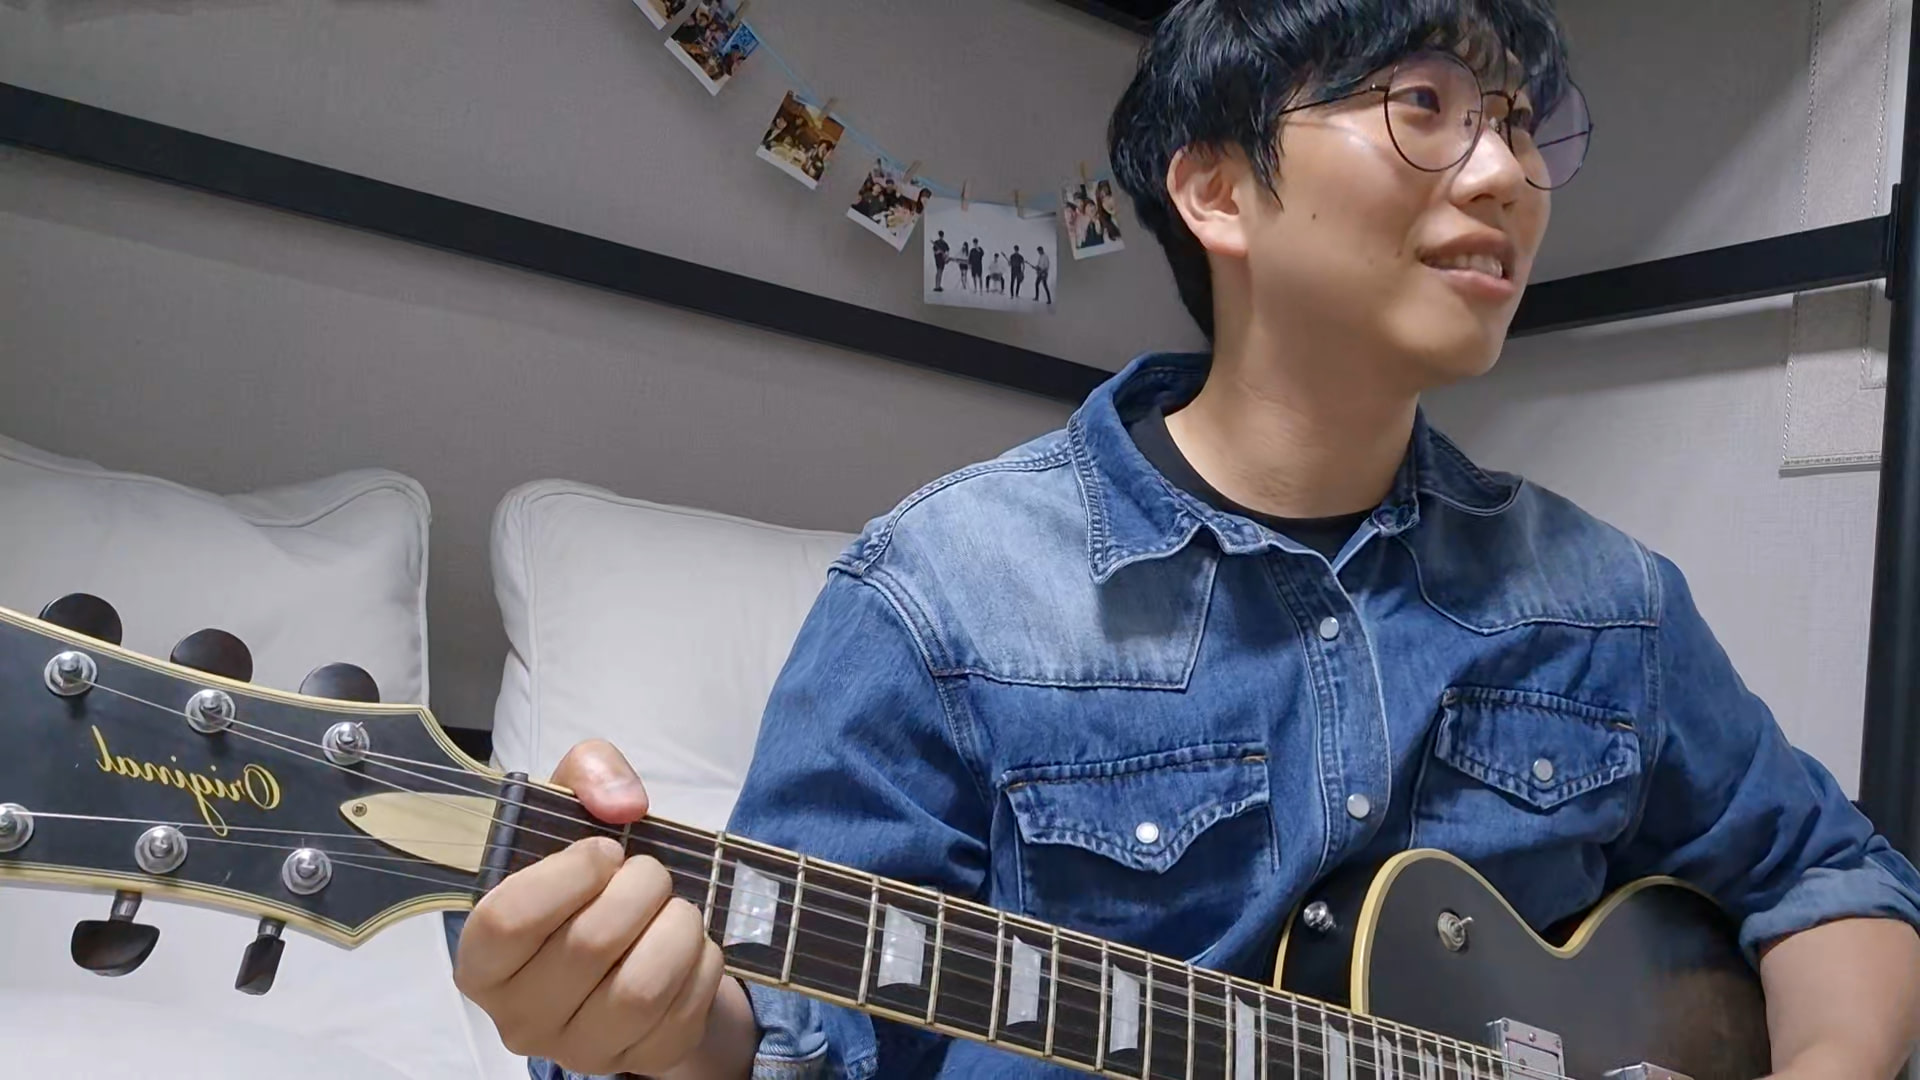
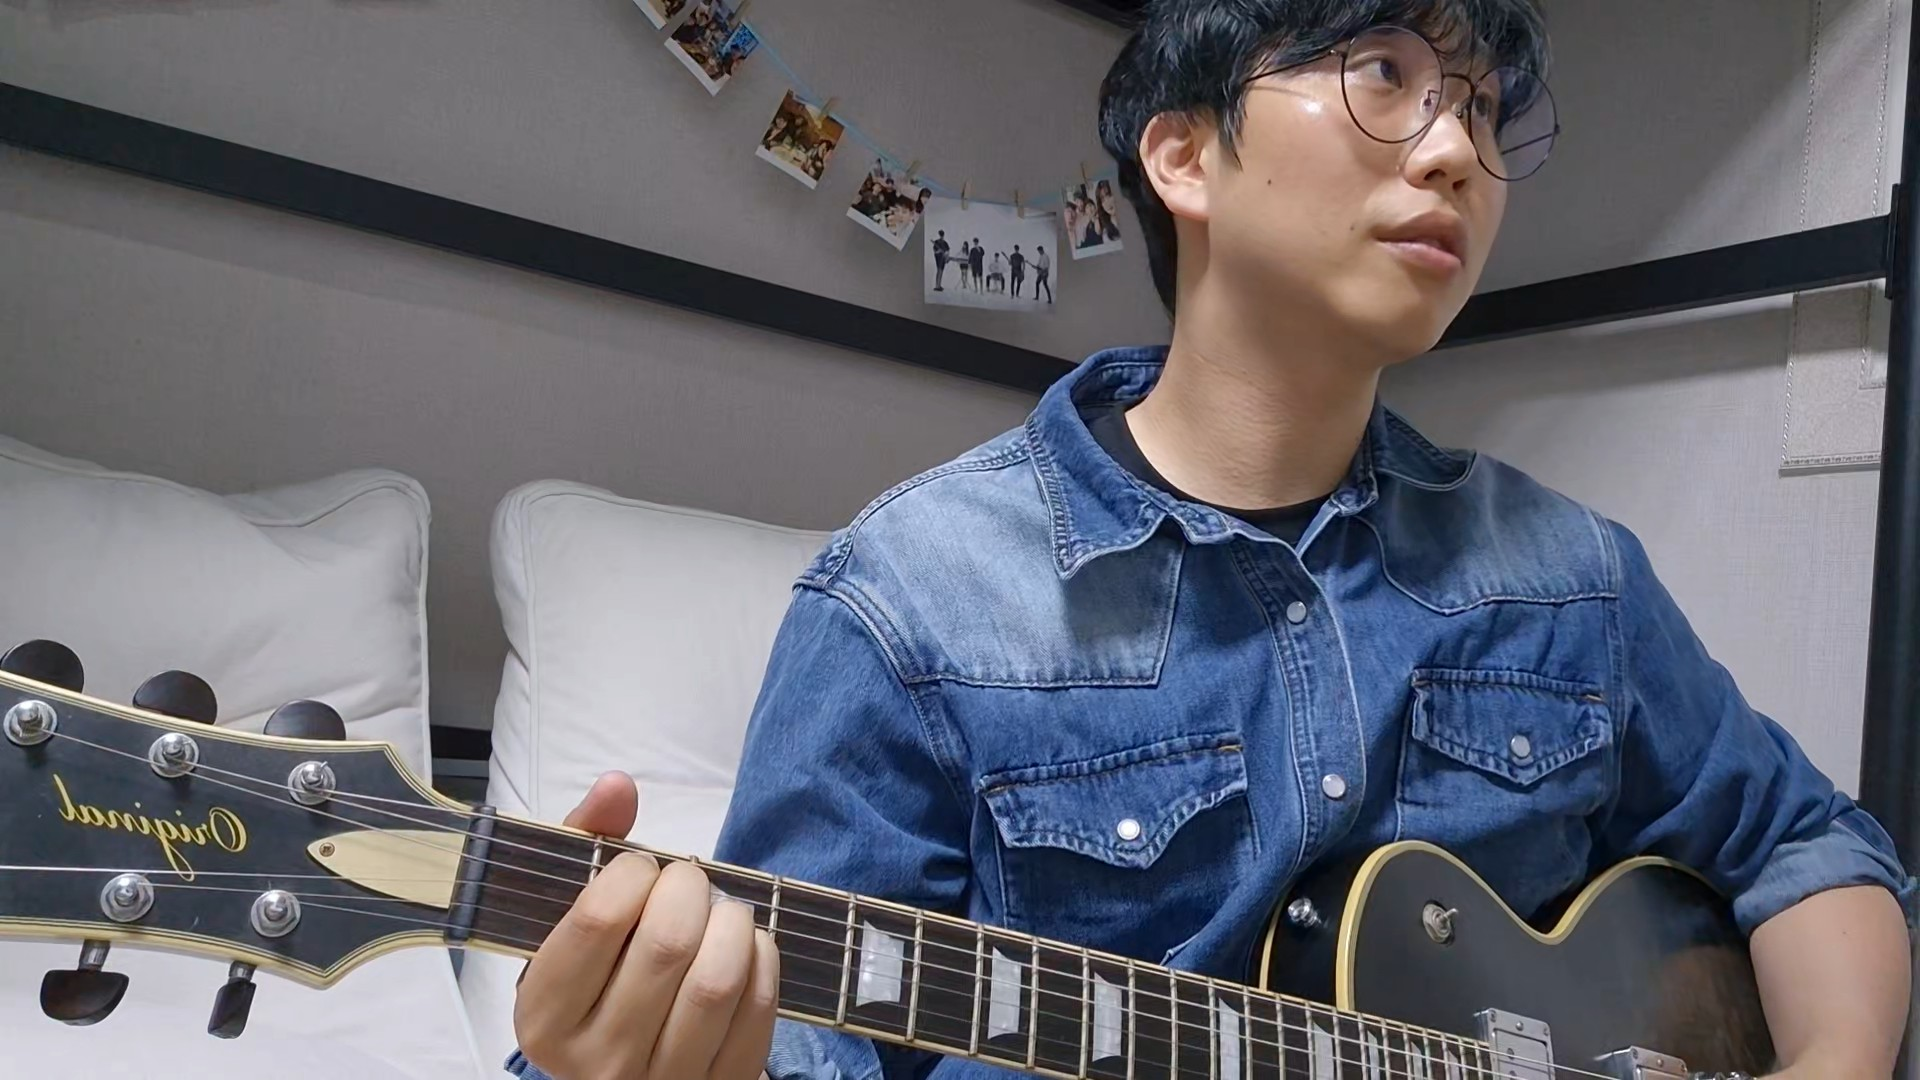
Refresh guitar photo and show compact hobby album thumbnails

diff --git a/activities/hobbies.html b/activities/hobbies.html
@@ -6,7 +6,7 @@
   <meta name="robots" content="noindex, noimageindex">
   <title>Hobbies | Jeonghwan Lee</title>
   <link rel="stylesheet" href="../css/style.css">
-  <link rel="stylesheet" href="activities.css?v=categories-2">
+  <link rel="stylesheet" href="activities.css?v=album-thumbnails-1">
   <script src="tabs.js?v=categories-2" defer></script>
   <script src="share-project.js" defer></script>
 </head>
@@ -32,7 +32,7 @@
     <details>
       <summary class="hobby-heading"><strong>Guitar</strong><small>Photos, repertoire &amp; recordings</small></summary>
       <div class="album-photos">
-        <a href="photos/guitar/Playing-an-electric-guitar.jpg" aria-label="View Playing an electric guitar at full size"><img src="photos/guitar/Playing-an-electric-guitar.jpg" loading="lazy" decoding="async" alt="Playing an electric guitar"></a>
+        <a href="photos/guitar/Playing-an-electric-guitar.jpg" aria-label="View Playing an electric guitar at full size"><img src="photos/guitar/thumbnails/Playing-an-electric-guitar.jpg.webp" loading="lazy" decoding="async" alt="Playing an electric guitar"></a>
       </div>
     </details>
   </article>

diff --git a/activities/activities.css b/activities/activities.css
@@ -171,15 +171,21 @@ summary.hobby-heading:hover,
 }
 .album-photos {
   display: grid;
-  grid-template-columns: repeat(auto-fill, minmax(min(100%, 11rem), 1fr));
-  gap: 12px;
+  grid-template-columns: repeat(auto-fill, min(100%, 8rem));
+  gap: .625rem;
   margin: .25rem 0 1.25rem;
 }
 .album-photos img {
   display: block;
   width: 100%;
-  aspect-ratio: 4 / 3;
-  object-fit: cover;
+  height: auto;
+  aspect-ratio: 3 / 2;
+  object-fit: contain;
+  padding: 2px;
+  border: 1px solid var(--line);
+  border-radius: 3px;
+  background: var(--paper);
+  box-sizing: border-box;
 }
 @media (max-width: 800px) {
   .activity-panel {
@@ -187,6 +193,9 @@ summary.hobby-heading:hover,
   }
 }
 @media (max-width: 600px) {
+  .album-photos {
+    grid-template-columns: repeat(auto-fill, min(100%, 6.25rem));
+  }
   .activity-work {
     grid-template-columns: 1fr;
   }

diff --git a/README.md b/README.md
@@ -34,6 +34,8 @@ Cooking and Baking appear together on the page. They each have an `entries` list
 
 For Travel, create one folder per region under `activities/photos/travel/`. For example, `activities/photos/travel/제주/성산 일출.jpg` appears under **Travel → 제주**. Use the region name as you want it displayed. Each region appears once it contains a photo.
 
+To use a smaller preview, save it in a `thumbnails/` subfolder beside the photo. For example, `guitar/thumbnails/session.jpg.webp` is the preview for `guitar/session.jpg`. Selecting a thumbnail opens the full photo.
+
 Run `node scripts/build-hobby-albums.mjs` from the repository root after updating entries or media. It refreshes `activities/hobbies.html`. A hobby becomes expandable when its first entry or photo is available.
 
 Store local hobby recordings and downloadable files under `activities/hobby-media/`.
